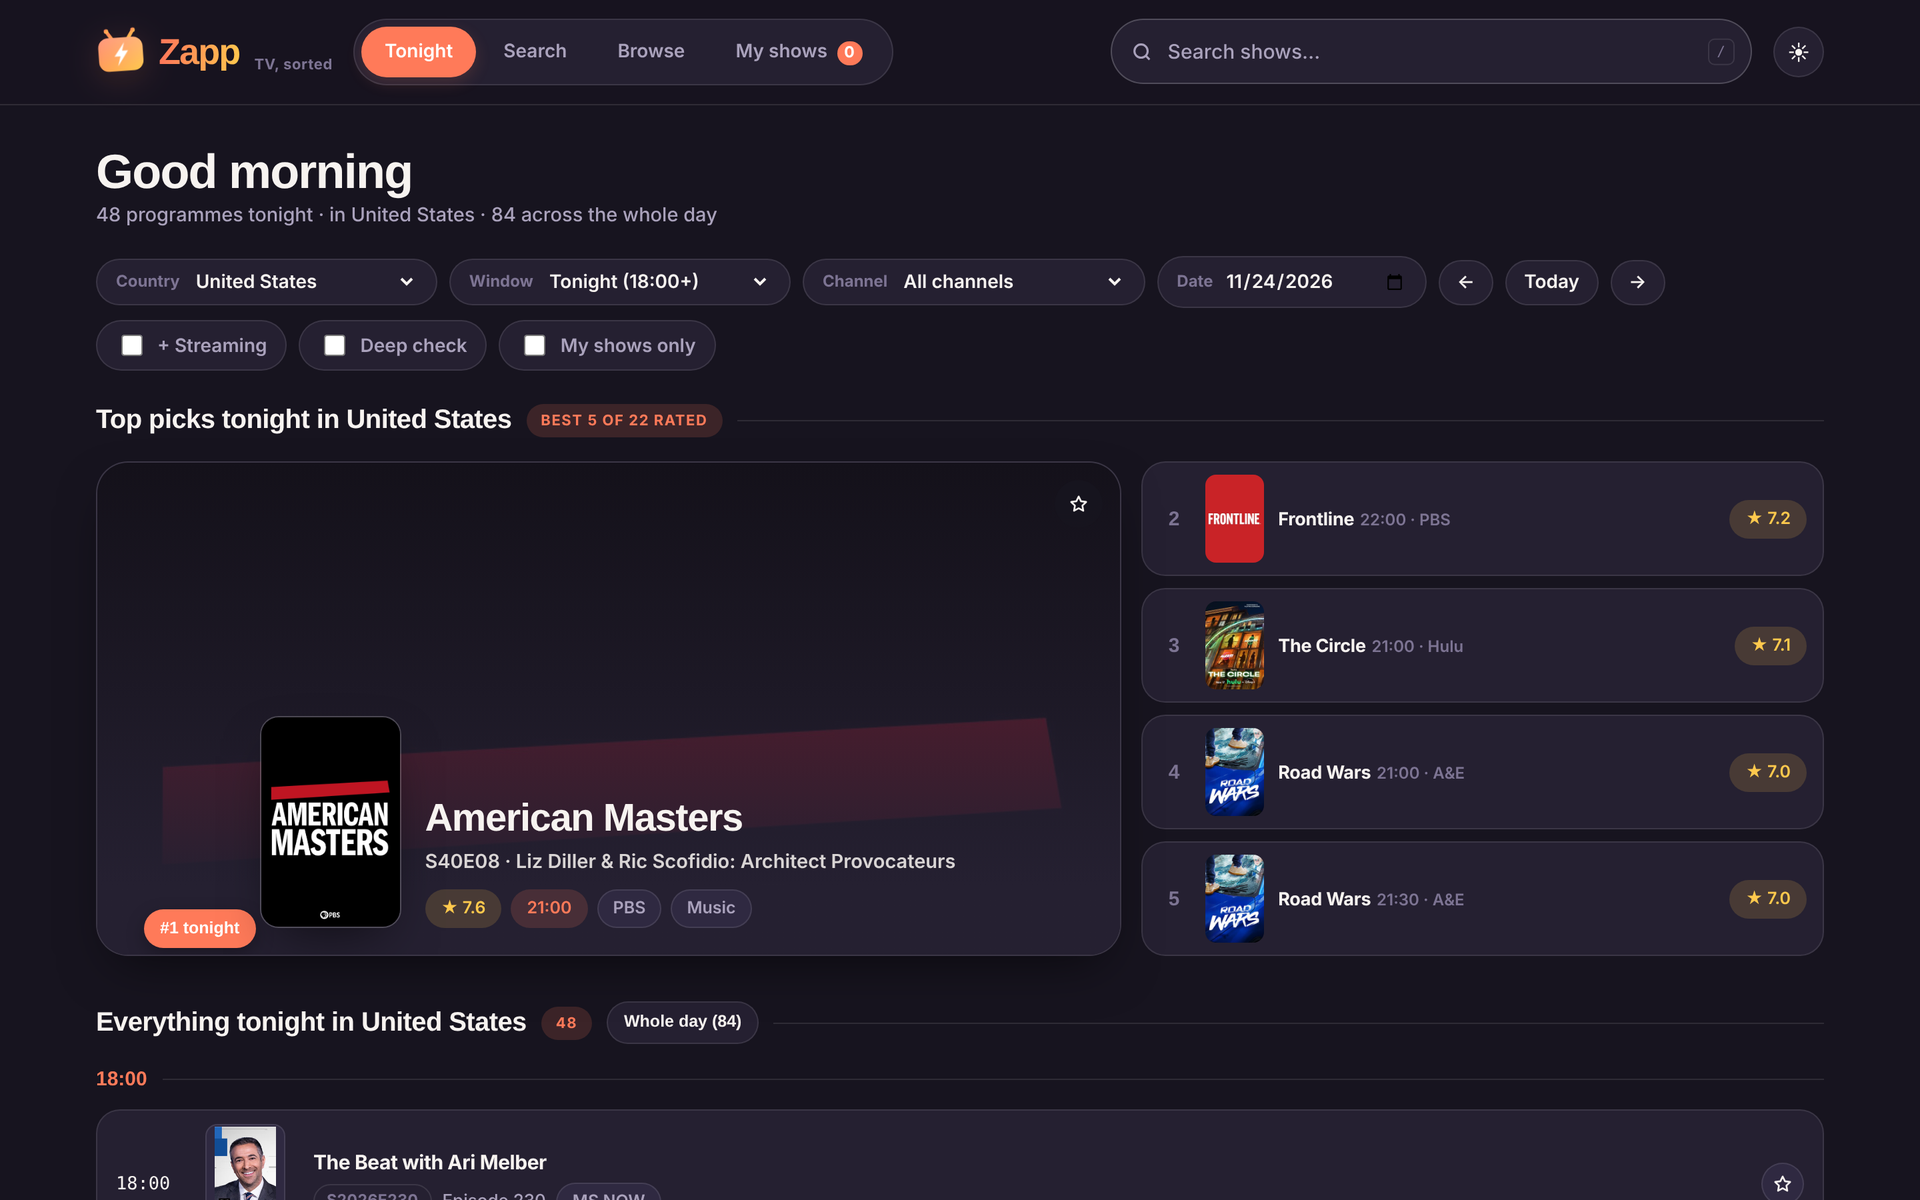
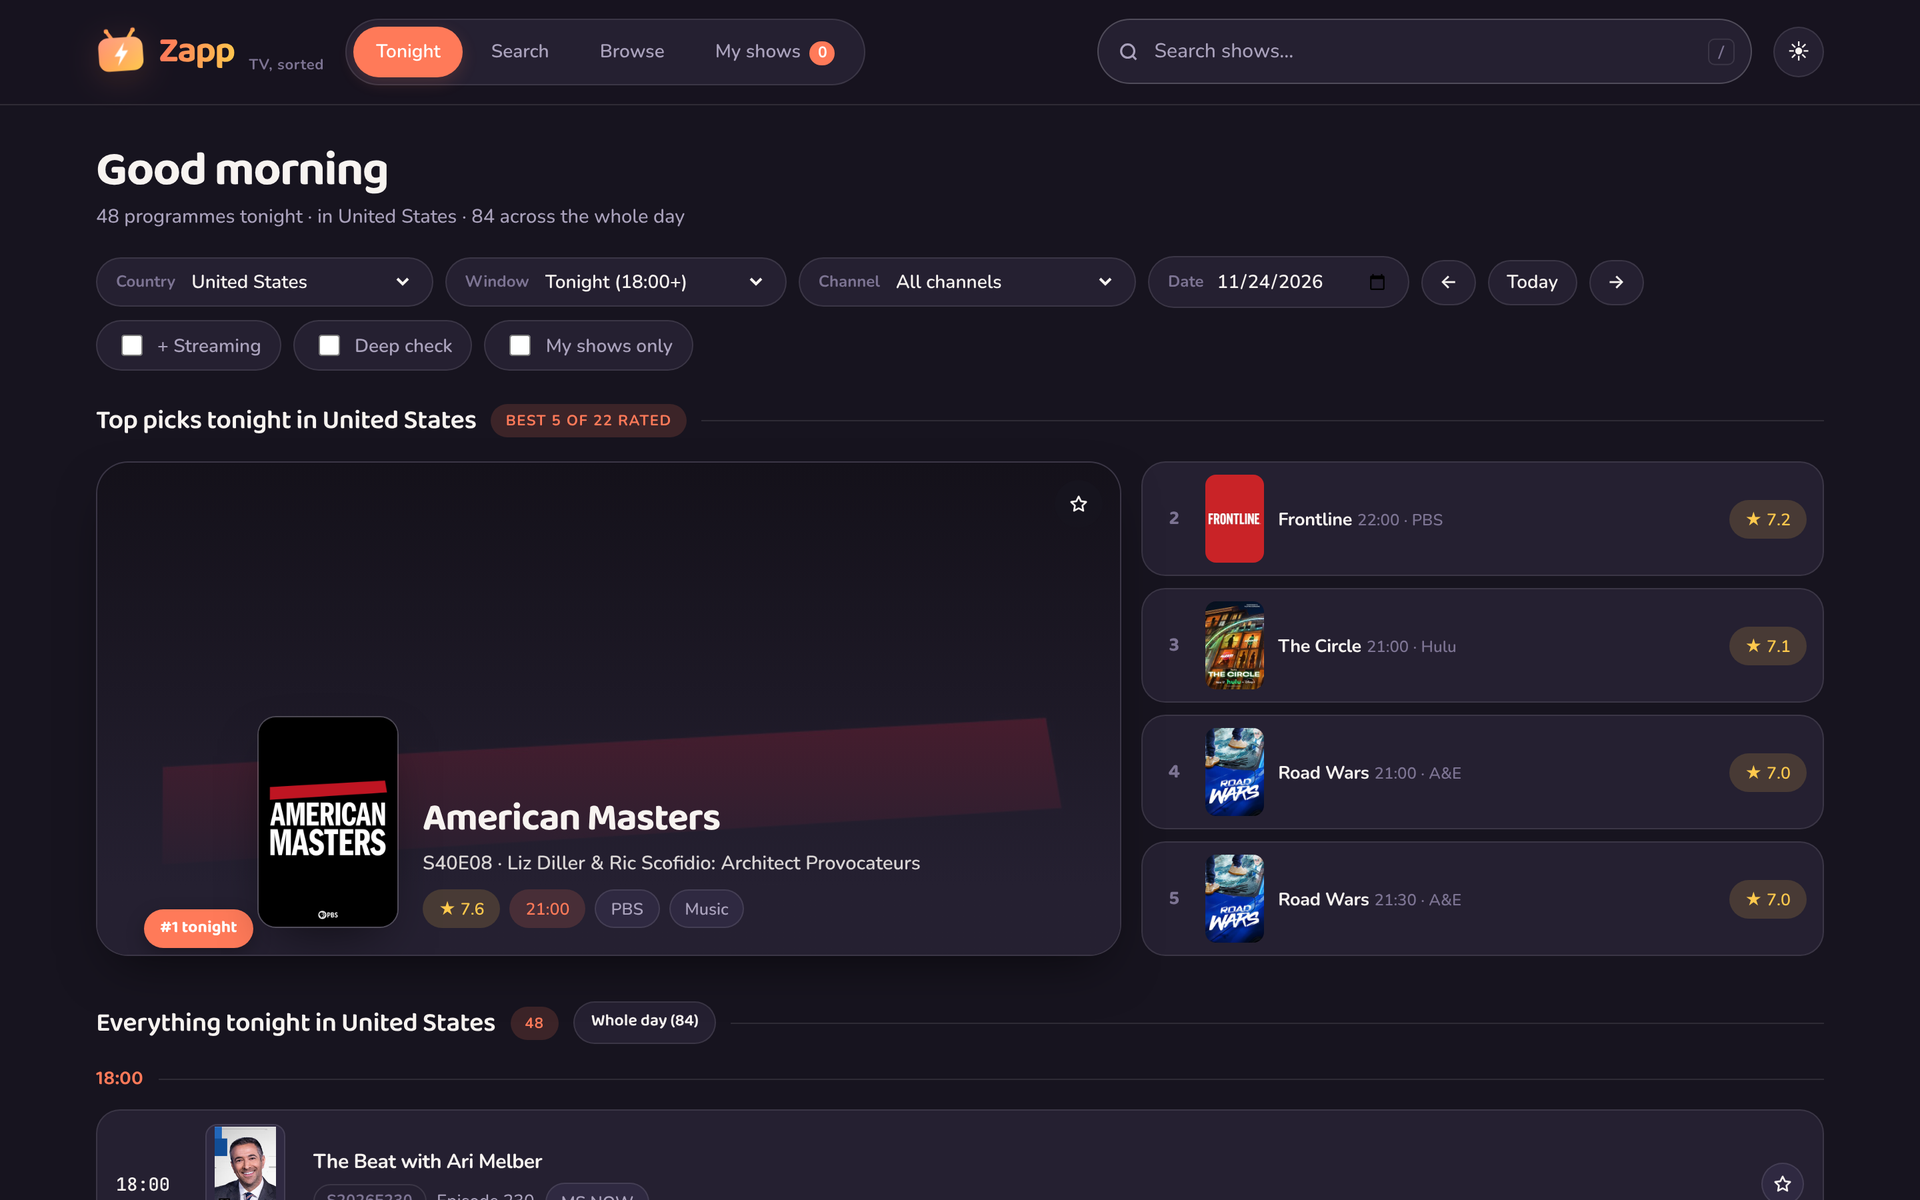
Add get-books screenshot and correct the get-books limitations
Capture the explorer against the live Supabase table, with book covers
loading, and re-capture zapp with its web fonts applied.

Correct the limitations documented for get-books. The live table does
have category and num_available columns and the explorer's filters work
against them; the real gap is that the committed schema.sql, books.csv
and scraper do not produce those columns, so a fresh clone cannot
reproduce the database the explorer expects.

Claude-Session: https://claude.ai/code/session_014GwZDSFBwaJt2KmW9T7ok4

diff --git a/get-books/README.md b/get-books/README.md
@@ -63,9 +63,11 @@ Two layers, deliberately:
 | `data/books.csv` | A flat snapshot of the scrape | A checkpoint. Scraping and loading are separate steps, so a parsing mistake in the loader doesn't mean re-crawling 1,000 pages — and the CSV is a readable artefact of what was actually collected. |
 | Supabase (Postgres) `books` table | The queryable copy the web explorer reads | A CSV can't be filtered from a browser. Putting the rows in Postgres means the UI can query, sort and filter server-side over HTTP with no backend of my own to host. |
 
-The table (`supabase/schema.sql`) stores `title`, `price_gbp`, `availability`,
-`rating`, `detail_url`, `image_url` and a `scraped_at` timestamp, with indexes on
-price and rating for sorting.
+The table stores `title`, `price_gbp`, `availability`, `rating`, `detail_url`,
+`image_url` and a `scraped_at` timestamp, with indexes on price and rating for
+sorting. The live table additionally carries `category` and `num_available`, which the
+explorer filters on — note that `supabase/schema.sql` in this repo does not yet define
+those two columns (see Limitations).
 
 `detail_url` is `unique` and used as the upsert key, so re-running the scrape
 **updates** existing books instead of duplicating them — the table can be refreshed
@@ -80,8 +82,7 @@ Security with a read-only policy.
 
 Open `index.html` in a browser. It fetches the `books` table and gives you:
 
-- **Category** and **minimum stock** filters (see Limitations — these need schema
-  columns that aren't populated yet)
+- **Category** (50 categories) and **minimum stock** filters
 - **Minimum rating** (1–5 stars)
 - **Price range** in £
 - **Title search**, **sorting**, and a **"Top picks"** row of the highest-rated books
@@ -172,14 +173,17 @@ browser a key that can't do damage."
 
 **Incomplete features**
 
-- **The Category and Minimum-stock filters don't work yet.** The explorer has UI for
-  both, but neither the CSV nor `schema.sql` has a `category` or `num_available`
-  column, so there's nothing to filter on. Category would need to be captured while
-  crawling (it's only visible from the sidebar nav, not the product card), and stock
-  counts only come from `--details`.
-- **`--details` data is collected but never stored.** The scraper can pull UPC,
-  product type, tax, stock count and description, but `schema.sql` and `upload.py`
-  only handle the six listing columns, so those fields stay in the CSV.
+- **The committed code can't reproduce the live database.** The live Supabase table
+  has `category` and `num_available` columns, and the explorer filters on both — but
+  `schema.sql` doesn't define them, `data/books.csv` doesn't contain them, and
+  `books_scraper.py` never captures `category` at all (it appears only in the sidebar
+  navigation, not on the product card). So cloning this repo and following the setup
+  steps produces a narrower table than the explorer expects, and those two filters
+  come up empty. Realigning the scraper, the CSV and the schema with the live table is
+  the main outstanding task.
+- **`--details` data is only partly stored.** The scraper can pull UPC, product type,
+  tax, stock count and description, but `upload.py` sends only the six listing
+  columns, so UPC, product type, tax and description never reach the database.
 - **The explorer loads the whole table at once** (up to 2,000 rows) and filters in the
   browser. That is fine for 1,000 books and would need real server-side pagination for
   a larger table.

diff --git a/README.md b/README.md
@@ -213,10 +213,11 @@ The hardest habit to learn was resisting the first fix. The duplicate rows in
 Each project README has a full **Limitations and assistance** section listing what is
 incomplete in that project. In summary:
 
-- **get-books** — the explorer's Category and Minimum-stock filters are built but have
-  no backing columns in the schema yet; the `--details` fields are scraped but not
-  stored; the explorer loads the whole table and filters client-side; the generic
-  scraper handles static HTML only.
+- **get-books** — the committed `schema.sql`, `books.csv` and scraper don't match the
+  live Supabase table, which has `category` and `num_available` columns they lack, so
+  a fresh clone can't reproduce the database the explorer expects; several `--details`
+  fields are scraped but never uploaded; the explorer loads the whole table and
+  filters client-side; the generic scraper handles static HTML only.
 - **my-monomentum** — the weather location is hard-coded to Lisbon; only
   Germany-wide holidays are covered; backgrounds come from a fixed list; there's no
   settings page and no automated tests.
